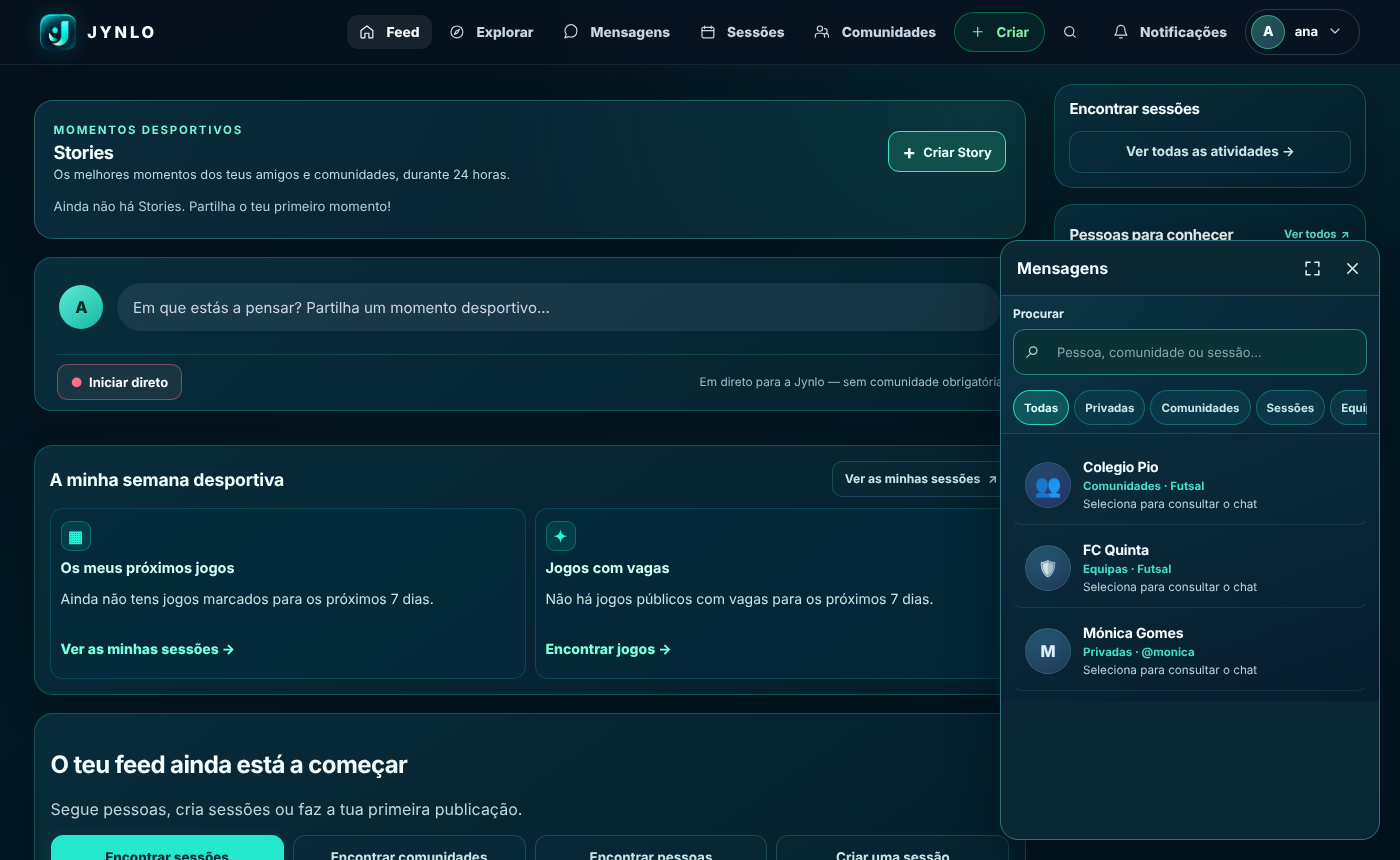
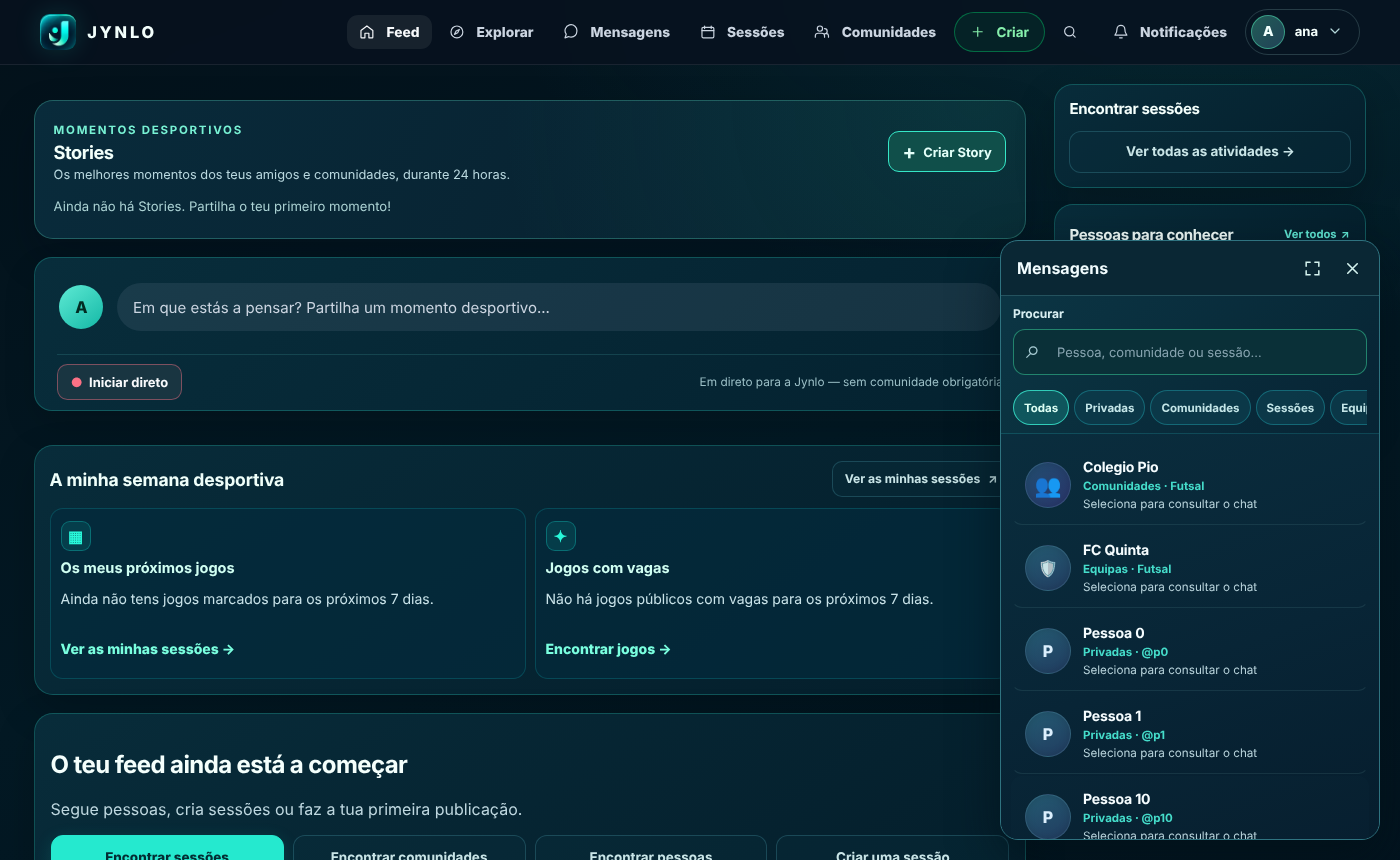
Floating Messages: list scrolls to the last person, compact header, composer always visible
Claude-Session: https://claude.ai/code/session_01NCG6nkiBEPLc5cBAmUeyUP

Changed region(s): [[0.7064, 0.907, 0.8907, 0.9977], [0.7064, 0.8163, 0.86, 0.8767], [0.7679, 0.7256, 0.86, 0.786]]

diff --git a/src/app/pages/messages-center/messages-center-embedded.css b/src/app/pages/messages-center/messages-center-embedded.css
@@ -116,3 +116,31 @@
 :host .inbox-page.jynlo-secondary.inbox-dock .inbox-sidebar,:host .inbox-page.jynlo-secondary.inbox-dock .inbox-detail{border:0;border-radius:0;box-shadow:none}
 :host .inbox-page.jynlo-secondary.inbox-dock{height:100%}
 .inbox-dock .inbox-sidebar .inbox-entries,.inbox-dock .inbox-sidebar app-inbox-conversation-list{flex:1 1 auto;min-height:0;overflow-y:auto}
+/* Hard limits so the list scrolls inside the floating window instead of overflowing it. */
+:host .inbox-page.inbox-dock,:host .inbox-page.inbox-dock .inbox-shell,:host .inbox-page.inbox-dock .inbox-layout,
+:host .inbox-page.inbox-dock .inbox-sidebar,:host .inbox-page.inbox-dock.inbox-dock--open .inbox-detail{
+  height:100%!important;min-height:0!important;max-height:100%!important;box-sizing:border-box}
+:host .inbox-page.inbox-dock .inbox-sidebar{display:flex!important;flex-direction:column!important;overflow:hidden}
+:host .inbox-page.inbox-dock.inbox-dock--open .inbox-sidebar{display:none!important}
+:host .inbox-page.inbox-dock .inbox-side-top{flex:none}
+:host .inbox-page.inbox-dock .inbox-message-log{min-height:0!important;max-height:none!important;flex:1 1 auto}
+/* The full page's minimum height does not apply inside the floating window. */
+:host-context(.chat-dock__body){display:block;min-height:0;height:100%}
+/* Compact conversation header in the floating window: name truncates, actions stay on one row. */
+:host .inbox-page.inbox-dock .inbox-detail-heading{display:flex;align-items:center;gap:6px;flex-wrap:nowrap;padding:8px 10px;min-height:0}
+:host .inbox-page.inbox-dock .inbox-detail-heading>*:not(.inbox-heading-actions):not(.inbox-dock-back){flex:1 1 auto;min-width:0}
+:host .inbox-page.inbox-dock .inbox-chat-identity{display:flex;align-items:center;gap:8px;min-width:0;max-width:100%;padding:0}
+:host .inbox-page.inbox-dock .inbox-detail-avatar{width:34px!important;height:34px!important;min-width:34px!important;flex:none;font-size:.9rem}
+:host .inbox-page.inbox-dock .inbox-detail-info{min-width:0;display:flex;flex-direction:column}
+:host .inbox-page.inbox-dock .inbox-detail-info strong,:host .inbox-page.inbox-dock .inbox-detail-heading h2{font-size:.95rem;white-space:nowrap;overflow:hidden;text-overflow:ellipsis;margin:0}
+:host .inbox-page.inbox-dock .inbox-contact-caption,:host .inbox-page.inbox-dock .inbox-detail-heading p{display:none}
+:host .inbox-page.inbox-dock .inbox-heading-actions{display:flex;flex:none;gap:4px;flex-wrap:nowrap;align-items:center}
+:host .inbox-page.inbox-dock .inbox-heading-actions>*{width:32px!important;height:32px!important;min-width:32px!important;min-height:32px!important;padding:0!important;font-size:.85rem}
+:host .inbox-page.inbox-dock .inbox-group-create{display:none!important}
+/* Composer always visible at the bottom of the window. */
+:host .inbox-page.inbox-dock .inbox-composer{flex:none}
+:host .inbox-page.inbox-dock .inbox-compose-toolbar{gap:4px;padding:5px 5px 5px 9px}
+:host .inbox-page.inbox-dock .inbox-compose-toolbar textarea{min-width:0;height:40px;min-height:40px}
+:host .inbox-page.inbox-dock .inbox-composer-actions{gap:2px}
+:host .inbox-page.inbox-dock .inbox-composer-actions>button[type="submit"]{width:40px;height:40px;min-width:40px}
+:host .inbox-page.inbox-dock .inbox-attachment-trigger,:host .inbox-page.inbox-dock .inbox-emoji-trigger,:host .inbox-page.inbox-dock .inbox-voice-trigger{width:32px;min-width:32px;height:32px}

diff --git a/src/app/shared/chat-dock/chat-dock.component.ts b/src/app/shared/chat-dock/chat-dock.component.ts
@@ -60,8 +60,8 @@ const MIN_WIDTH = 1024;
       color:#d5f3ef;cursor:pointer}
     .chat-dock__icon:hover{background:#174b56}
     .chat-dock__icon svg{width:19px;height:19px}
-    .chat-dock__body{flex:1;min-height:0;overflow:hidden}
-    .chat-dock__body > app-messages-center{display:block;height:100%}
+    .chat-dock__body{position:relative;flex:1;min-height:0;overflow:hidden}
+    .chat-dock__body > app-messages-center{position:absolute;inset:0;display:block;overflow:hidden}
   `]
 })
 export class ChatDockComponent implements OnInit, OnDestroy {
